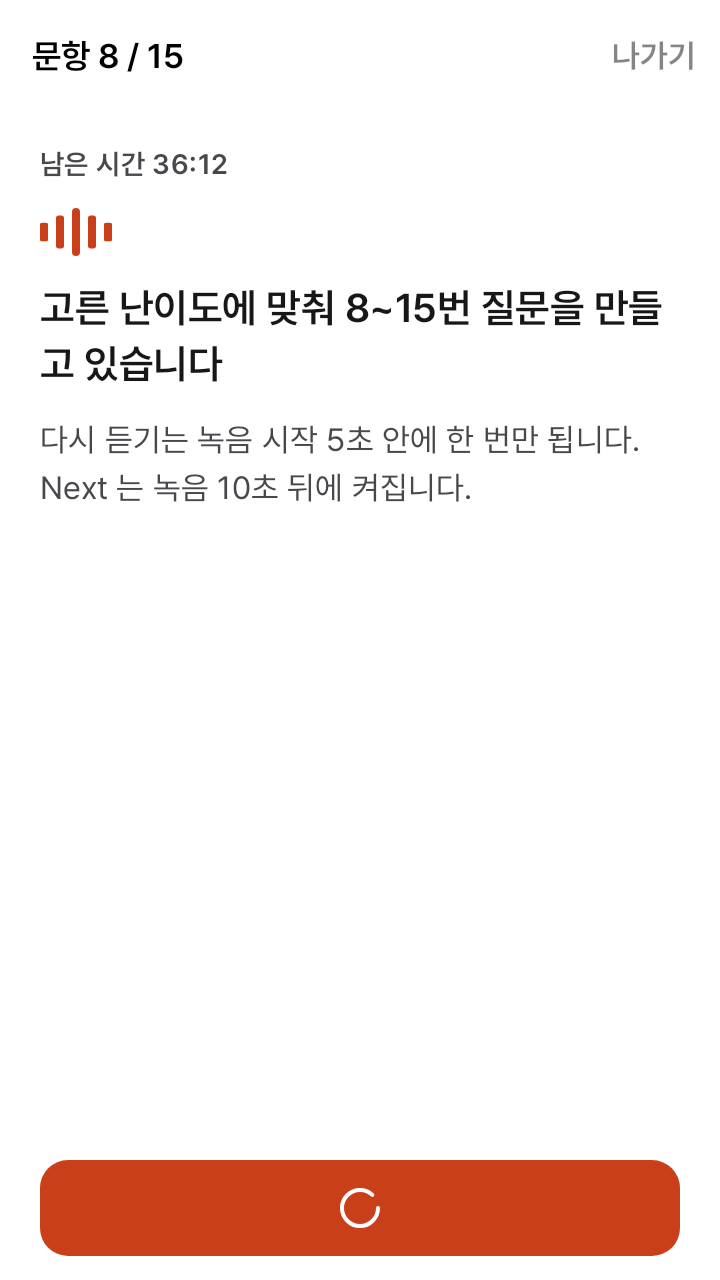
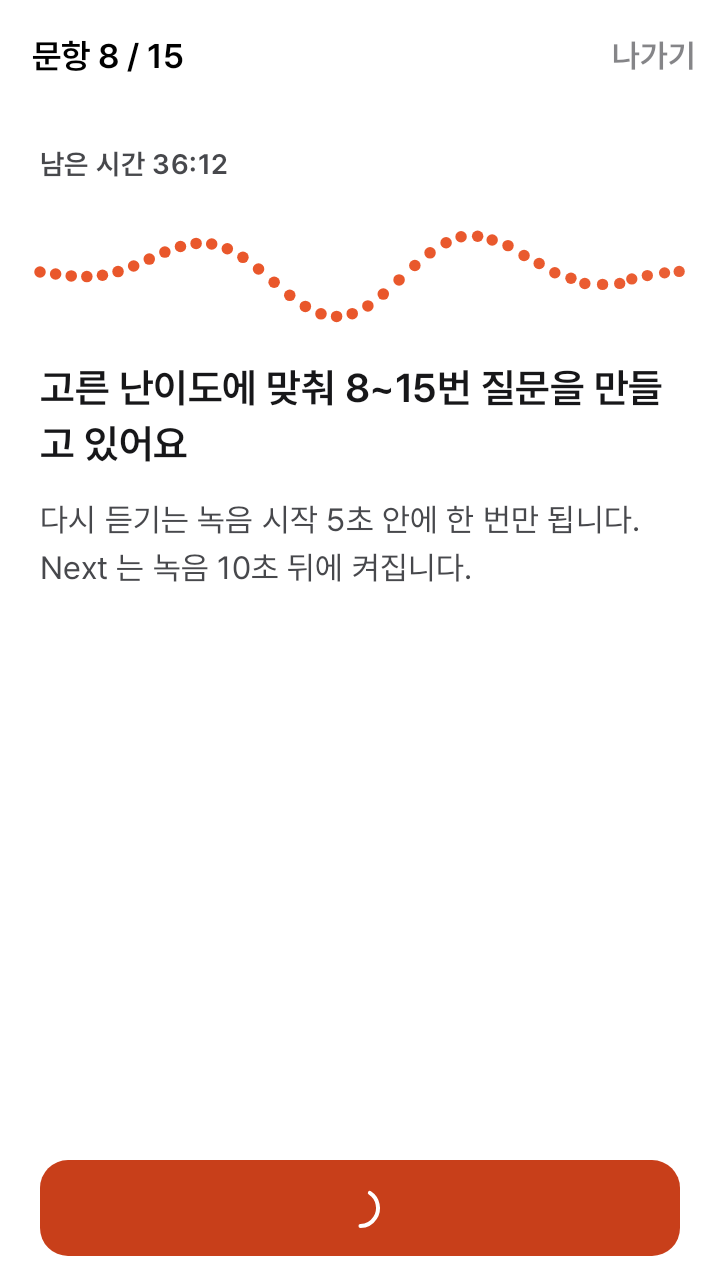
[qgen2] 질문 기다림 표시를 공통 부품 MontageGatheringDots 로 바꿨다 (#150)

diff --git a/ui/feature-exam/src/commonMain/kotlin/io/github/nosorae/aiopic/ui/featureexam/QuestionLoading.kt b/ui/feature-exam/src/commonMain/kotlin/io/github/nosorae/aiopic/ui/featureexam/QuestionLoading.kt
@@ -1,84 +1,24 @@
 package io.github.nosorae.aiopic.ui.featureexam
 
-import androidx.compose.animation.core.LinearEasing
-import androidx.compose.animation.core.RepeatMode
-import androidx.compose.animation.core.StartOffset
-import androidx.compose.animation.core.animateFloat
-import androidx.compose.animation.core.infiniteRepeatable
-import androidx.compose.animation.core.rememberInfiniteTransition
-import androidx.compose.animation.core.tween
-import androidx.compose.foundation.background
 import androidx.compose.foundation.layout.Arrangement
-import androidx.compose.foundation.layout.Box
 import androidx.compose.foundation.layout.Column
-import androidx.compose.foundation.layout.Row
-import androidx.compose.foundation.layout.height
-import androidx.compose.foundation.layout.width
-import androidx.compose.foundation.shape.RoundedCornerShape
 import androidx.compose.material3.Text
 import androidx.compose.runtime.Composable
-import androidx.compose.ui.Alignment
 import androidx.compose.ui.Modifier
-import androidx.compose.ui.draw.clip
-import androidx.compose.ui.graphics.graphicsLayer
 import androidx.compose.ui.platform.testTag
-import androidx.compose.ui.semantics.contentDescription
-import androidx.compose.ui.semantics.semantics
+import io.github.nosorae.aiopic.ui.design.MontageGatheringDots
 import io.github.nosorae.aiopic.ui.design.MontageSpacing
 import io.github.nosorae.aiopic.ui.design.MontageTheme
 import org.jetbrains.compose.resources.stringResource
 
 /**
- * 질문을 불러오는 동안 문항 화면의 진행 문구 대신 보인다. 말하기 앱이라 음성 파형 막대가 오르내리는 모양이다.
- * 시스템의 동작 줄이기가 켜져 있으면 막대를 멈춘 채 둔다. [text] 는 무엇을 만드는지, 오래 걸리면 연결 상태를 보라는 문구다.
+ * 질문을 기다리는 동안 문항 화면의 진행 문구 대신 보인다. 점 무리가 움직여 기다리는 중임을 보이고(동작 줄이기면 멈춘 물결),
+ * [text] 가 무엇을 만드는지 또는 오래 걸리면 연결 상태를 보라고 알린다.
  */
 @Composable
-internal fun QuestionLoading(text: String, modifier: Modifier = Modifier, animate: Boolean = !rememberReduceMotion()) {
-    val description = stringResource(Res.string.exam_question_loading_description)
+internal fun QuestionLoading(text: String, modifier: Modifier = Modifier) {
     Column(modifier.testTag("exam-question-loading"), verticalArrangement = Arrangement.spacedBy(MontageSpacing.spacing12)) {
-        Wave(animate, Modifier.semantics { contentDescription = description })
-        Text(
-            text = text,
-            style = MontageTheme.typography.heading2.bold,
-            color = MontageTheme.colors.foregroundNeutralPrimary,
-        )
+        MontageGatheringDots(stringResource(Res.string.exam_question_loading_description))
+        Text(text = text, style = MontageTheme.typography.heading2.bold, color = MontageTheme.colors.foregroundNeutralPrimary)
     }
 }
-
-/** 막대 다섯 개가 차례로 커졌다 작아진다. 멈춘 모양은 가운데가 높은 고정 파형이다. */
-@Composable
-private fun Wave(animate: Boolean, modifier: Modifier = Modifier) {
-    val transition = if (animate) rememberInfiniteTransition(label = "question-loading") else null
-    Row(
-        modifier = modifier.height(WaveHeight),
-        horizontalArrangement = Arrangement.spacedBy(MontageSpacing.spacing4),
-        verticalAlignment = Alignment.CenterVertically,
-    ) {
-        STILL_WAVE.forEachIndexed { index, still ->
-            val scale = transition?.animateFloat(
-                initialValue = MIN_SCALE,
-                targetValue = 1f,
-                animationSpec = infiniteRepeatable(
-                    // 한 번 오르고 내리는 데 1초다. 막대마다 0.1초씩 늦춰 물결처럼 보이게 한다.
-                    animation = tween(durationMillis = WAVE_MILLIS / 2, easing = LinearEasing),
-                    repeatMode = RepeatMode.Reverse,
-                    initialStartOffset = StartOffset(index * WAVE_MILLIS / 10),
-                ),
-                label = "bar-$index",
-            )
-            Box(
-                Modifier
-                    .width(MontageSpacing.spacing4)
-                    .height(WaveHeight)
-                    .graphicsLayer { scaleY = scale?.value ?: still }
-                    .clip(RoundedCornerShape(MontageSpacing.spacing2))
-                    .background(MontageTheme.colors.foregroundBrandPrimary),
-            )
-        }
-    }
-}
-
-private val WaveHeight = MontageSpacing.spacing24
-private const val WAVE_MILLIS = 1_000
-private const val MIN_SCALE = 0.25f
-private val STILL_WAVE = listOf(0.4f, 0.7f, 1f, 0.7f, 0.4f)

diff --git a/ui/feature-exam/src/androidHostTest/kotlin/io/github/nosorae/aiopic/ui/featureexam/ExamScreenshotTest.kt b/ui/feature-exam/src/androidHostTest/kotlin/io/github/nosorae/aiopic/ui/featureexam/ExamScreenshotTest.kt
@@ -1,11 +1,11 @@
 package io.github.nosorae.aiopic.ui.featureexam
 
-import android.content.Context
-import android.provider.Settings
-import androidx.test.core.app.ApplicationProvider
+import androidx.compose.ui.test.junit4.createComposeRule
+import androidx.compose.ui.test.onRoot
 import androidx.test.ext.junit.runners.AndroidJUnit4
 import com.github.takahirom.roborazzi.captureRoboImage
 import io.github.nosorae.aiopic.ui.design.MontageTheme
+import org.junit.Rule
 import org.junit.Test
 import org.junit.runner.RunWith
 import org.robolectric.annotation.Config
@@ -19,6 +19,8 @@ import org.robolectric.annotation.GraphicsMode
 @GraphicsMode(GraphicsMode.Mode.NATIVE)
 @Config(sdk = [35], qualifiers = "w360dp-h640dp-xhdpi")
 class ExamScreenshotTest {
+    @get:Rule val rule = createComposeRule()
+
     @Config(qualifiers = "w360dp-h1800dp-xhdpi")
     @Test
     fun survey() = shot(ExamSamples.survey)
@@ -37,12 +39,12 @@ class ExamScreenshotTest {
 
     @Test fun questionSpeaking() = shot(ExamSamples.questionSpeaking)
 
-    /** 질문을 만드는 중 안내. 파형 막대는 동작 줄이기를 켠 것처럼 멈춘 모양으로 찍는다. */
-    @Test fun questionLoading() = still { shot(ExamSamples.questionLoading) }
+    /** 질문을 만드는 중 안내. 점 무리는 멈춘 시계의 한 장면이다. */
+    @Test fun questionLoading() = still(ExamSamples.questionLoading)
 
-    @Test fun questionLoadingRecalibrated() = still { shot(ExamSamples.questionLoadingRecalibrated) }
+    @Test fun questionLoadingRecalibrated() = still(ExamSamples.questionLoadingRecalibrated)
 
-    @Test fun questionSlow() = still { shot(ExamSamples.questionSlow) }
+    @Test fun questionSlow() = still(ExamSamples.questionSlow)
 
     @Test fun questionBuiltIn() = shot(ExamSamples.questionBuiltIn)
 
@@ -71,18 +73,15 @@ class ExamScreenshotTest {
     @Test
     fun questionReplayable_fontScale200() = shot(ExamSamples.questionReplayable)
 
-    /** 시스템 애니메이션 배율을 0 으로 두고 찍는다. 반복 애니메이션이 멈춘 한 장면이 된다. */
-    private fun still(block: () -> Unit) {
-        val resolver = ApplicationProvider.getApplicationContext<Context>().contentResolver
-        Settings.Global.putFloat(resolver, Settings.Global.ANIMATOR_DURATION_SCALE, 0f)
-        try {
-            block()
-        } finally {
-            Settings.Global.putFloat(resolver, Settings.Global.ANIMATOR_DURATION_SCALE, 1f)
-        }
-    }
-
     private fun shot(state: ExamUiState, dark: Boolean = false) = captureRoboImage {
         MontageTheme(darkTheme = dark) { ExamScreen(state = state, onIntent = {}) }
+    }
+
+    /** 계속 도는 기다림 표시가 있는 화면. 시계를 멈추고 1.2초 넘긴 장면을 찍는다. 시계가 흐르면 화면이 쉬지 않아 찍지 못한다. */
+    private fun still(state: ExamUiState) {
+        rule.mainClock.autoAdvance = false
+        rule.setContent { MontageTheme { ExamScreen(state = state, onIntent = {}) } }
+        rule.mainClock.advanceTimeBy(1_200)
+        rule.onRoot().captureRoboImage()
     }
 }

diff --git a/apps/opic/iosApp/iosAppUITests/FirstPlayUITests.swift b/apps/opic/iosApp/iosAppUITests/FirstPlayUITests.swift
@@ -42,7 +42,7 @@ final class FirstPlayUITests: XCTestCase {
         let start = Date()
         app.tapTag("exam-play")
         let phase = app.tag("exam-phase")
-        let loading = app.staticTexts.matching(NSPredicate(format: "label CONTAINS %@", "질문을 만들고 있습니다")).firstMatch
+        let loading = app.staticTexts.matching(NSPredicate(format: "label CONTAINS %@", "질문을 만들고 있어요")).firstMatch
         XCTAssertTrue(waitUntil(60) {
             if loading.exists { self.sawLoading = true }
             return phase.exists && phase.label.hasPrefix("녹음 중")

diff --git a/apps/opic/androidApp/src/androidTest/kotlin/io/github/nosorae/aiopic/apps/opic/androidapp/ExamE2eTest.kt b/apps/opic/androidApp/src/androidTest/kotlin/io/github/nosorae/aiopic/apps/opic/androidapp/ExamE2eTest.kt
@@ -135,7 +135,7 @@ class ExamE2eTest {
         click("Play")
         var sawLoading = false
         compose.waitUntil(QUESTION_TIMEOUT) {
-            sawLoading = sawLoading || exists("질문을 만들고 있습니다")
+            sawLoading = sawLoading || exists("질문을 만들고 있어요")
             exists("녹음 중")
         }
         Log.i("ExamE2eTest", "FIRST_PLAY Play 에서 녹음 시작까지 ${System.currentTimeMillis() - start}ms")

diff --git a/docs/adr/0029-출제는-세-몫으로-나눠-미리-받는다.md b/docs/adr/0029-출제는-세-몫으로-나눠-미리-받는다.md
@@ -23,7 +23,7 @@
 - 점검의 연습 문항과 1번(자기소개)은 내장 문항 풀에서 바로 낸다. 자기소개는 채점하지 않는 워밍업이라 모델이 만들 이유가 작다
 - 1번 Play 때 2번부터 재조정 앞까지(2~7번)를 뒤에서 요청한다
 - 재조정 두 문항 전(6번) Play 때 재조정 뒤 몫(8~15번)을 쉬운, 비슷한, 어려운 선택지마다 하나씩 뒤에서 요청한다. 고른 것을 쓰고 나머지 요청은 버린다
-- Play 때 그 몫이 아직 안 왔으면 무엇을 만드는지 보이며 기다린다("고른 주제로 2~7번 질문을 만들고 있습니다", 8번부터는 "고른 난이도에 맞춰 8~15번 질문을 만들고 있습니다"). 기다리는 동안 파형 막대가 움직이고 동작 줄이기가 켜져 있으면 멈춘 모양이다. 10초가 넘으면 연결 상태를 확인하라는 문구로 바꾼다. 실패하면 내장 문항으로 내고 짧게 알린다(F6.2)
+- Play 때 그 몫이 아직 안 왔으면 무엇을 만드는지 보이며 기다린다("고른 주제로 2~7번 질문을 만들고 있어요", 8번부터는 "고른 난이도에 맞춰 8~15번 질문을 만들고 있어요"). 기다리는 동안 공통 기다림 표시(`MontageGatheringDots`)가 움직인다. 10초가 넘으면 연결 상태를 확인하라는 문구로 바꾼다. 실패하면 내장 문항으로 내고 짧게 알린다(F6.2)
 - 받은 몫은 회차 id 로 저장해서 이어 볼 때 같은 질문을 낸다(F3.3). 미리 보낸 요청은 메모리에만 있어서 앱이 꺼지면 이어 볼 때 다시 요청한다
 - 뒤 몫의 요청에는 앞에서 낸 질문의 유형과 주제를 같이 보내 같은 주제를 다시 쓰지 않게 한다
 - 출제는 분석 모델 설정과 상관없이 Gemini 3.5 Flash Lite 로 보낸다
@@ -46,4 +46,4 @@
 - [시험 저장소](../../apps/opic/shared/src/commonMain/kotlin/io/github/nosorae/aiopic/apps/opic/shared/data/StoreExamRepository.kt)
 - [출제 프롬프트](../../packs/opic-en/src/commonMain/composeResources/files/prompts/questions.md)
 - [출제 모델](../../engine/ai-gemini/src/commonMain/kotlin/io/github/nosorae/aiopic/engine/aigemini/GeminiModels.kt)
-- [불러오는 중 안내](../../ui/feature-exam/src/commonMain/kotlin/io/github/nosorae/aiopic/ui/featureexam/QuestionLoading.kt)
+- [질문 만드는 중 안내](../../ui/feature-exam/src/commonMain/kotlin/io/github/nosorae/aiopic/ui/featureexam/QuestionLoading.kt)
